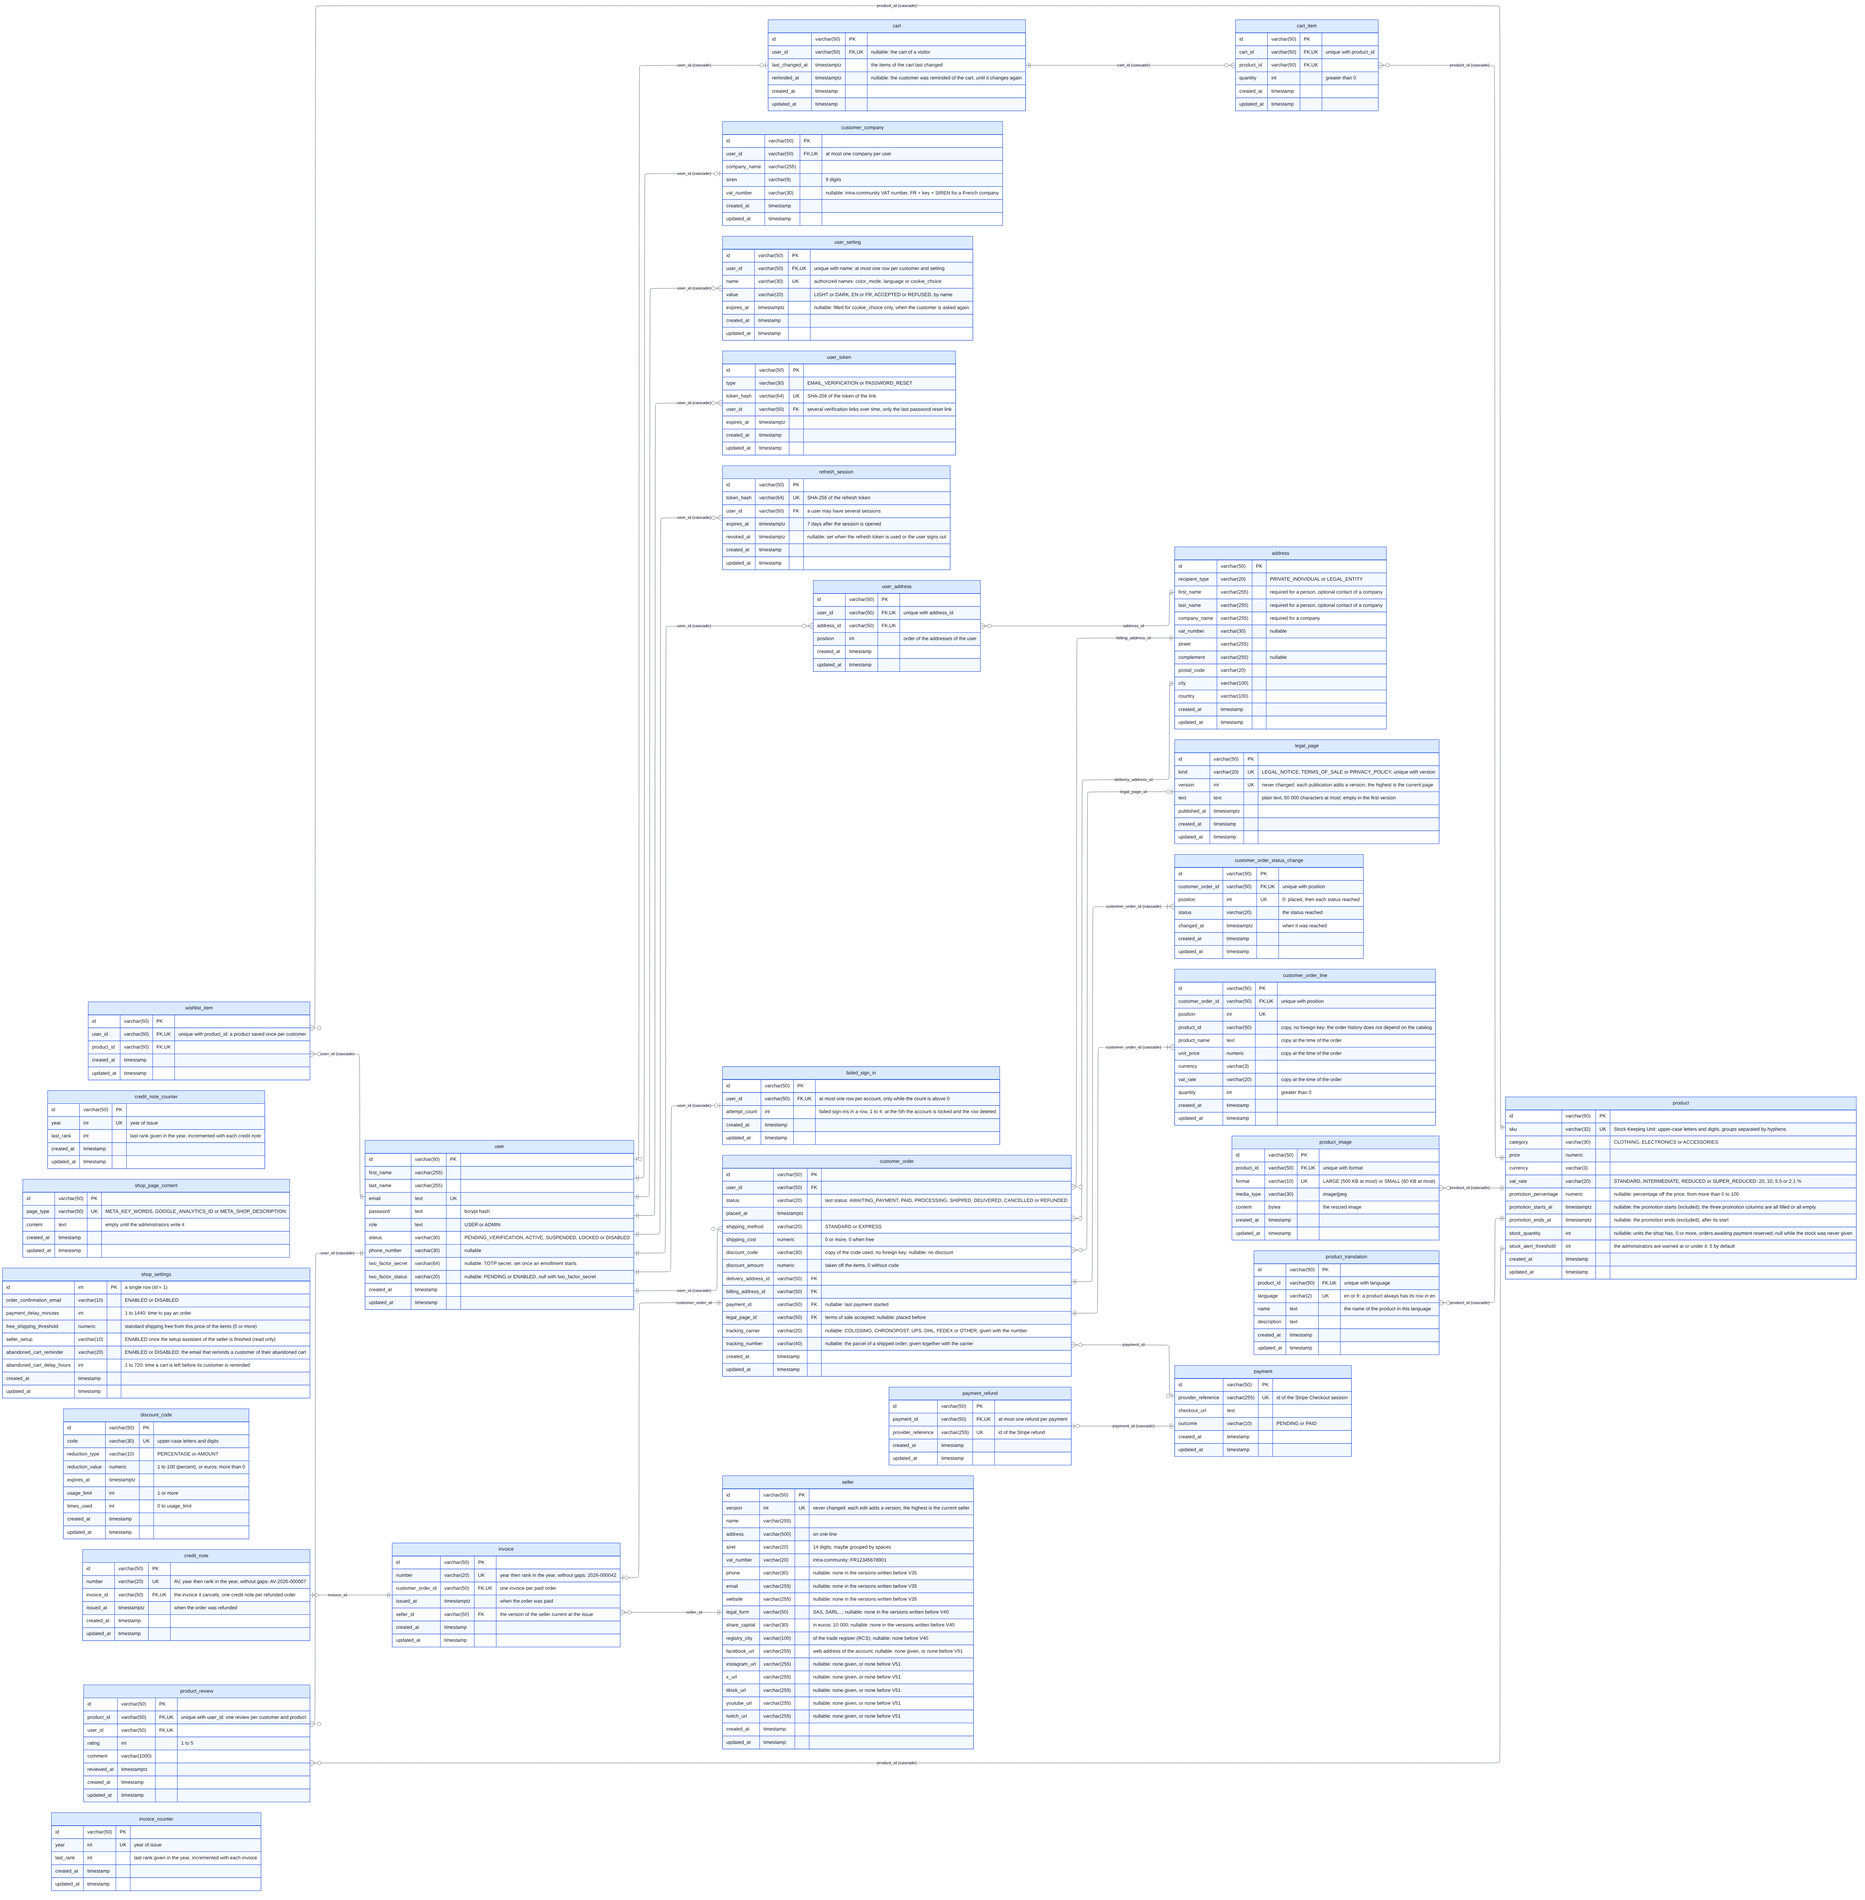
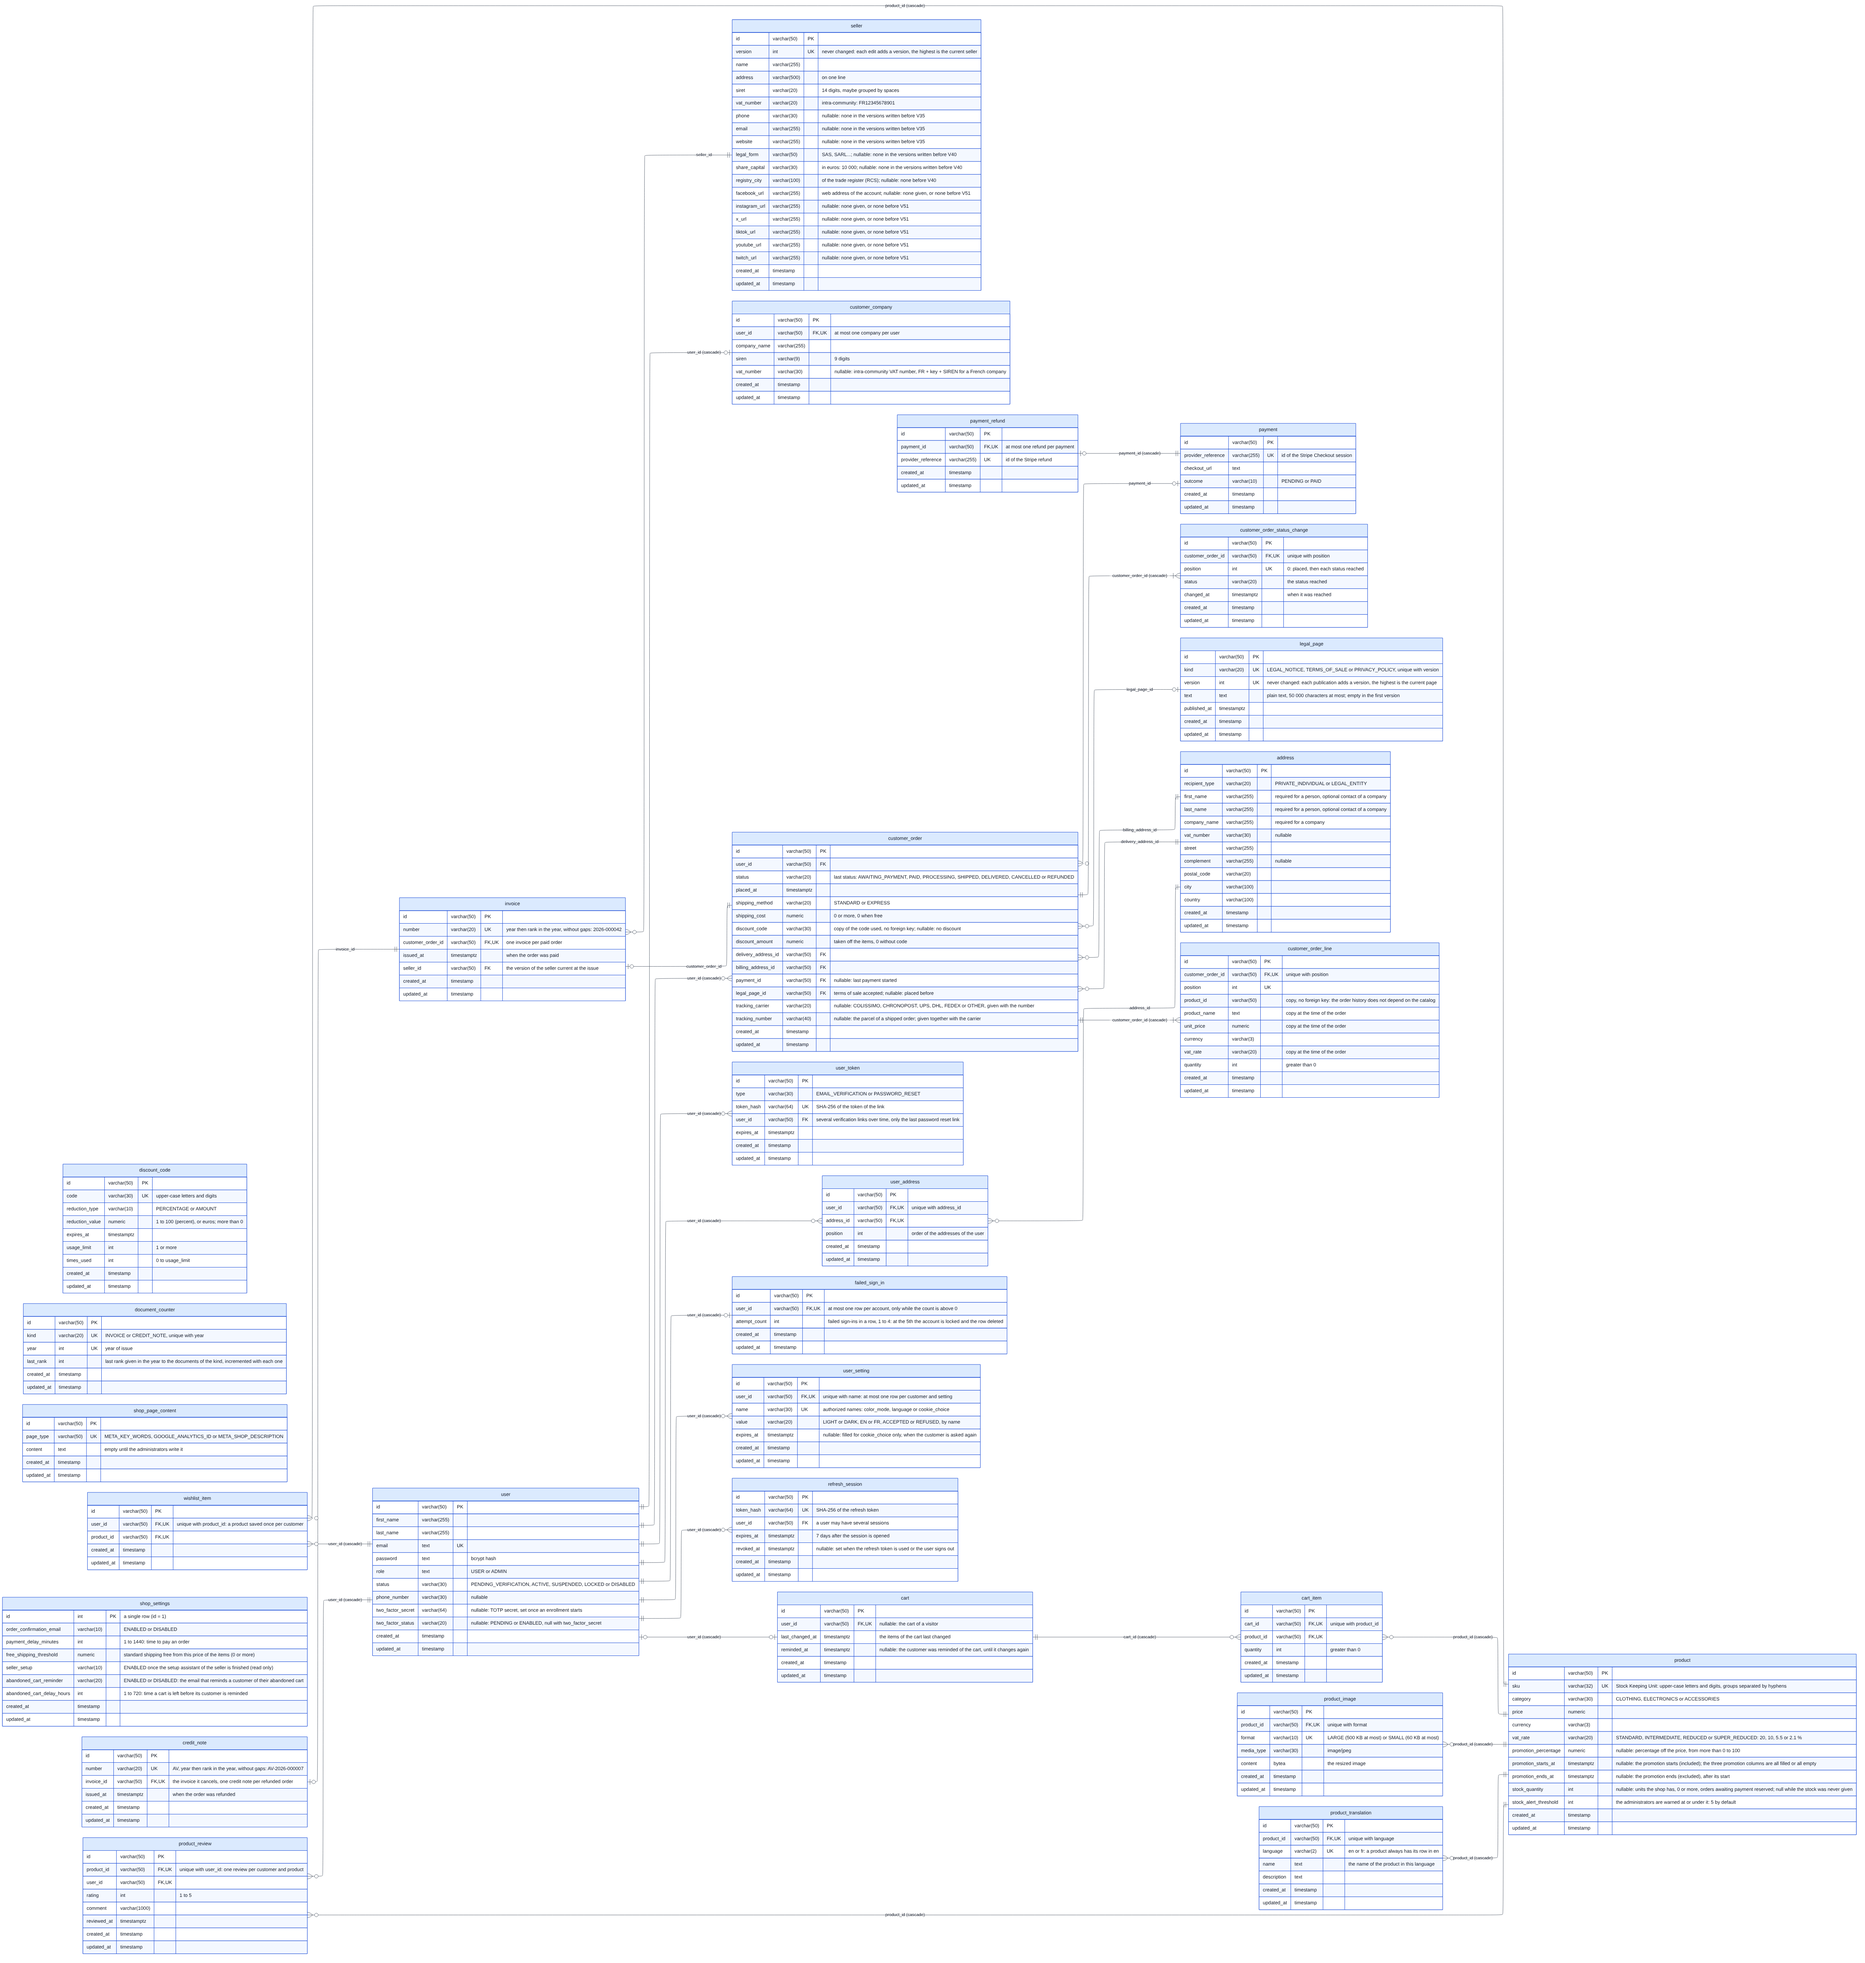
refactor(db): merge the invoice and credit note counters into document_counter
invoice_counter and credit_note_counter were two tables of the same kind:
the last rank given in a year to the documents of one kind. They are now the
rows of document_counter, one per kind (INVOICE or CREDIT_NOTE) and year.
V60 copies the existing counters and drops the two tables.

Claude-Session: https://claude.ai/code/session_01U9gDSZZiT5EBeJiDQoHqRa

diff --git a/backend/spring-infra/src/main/kotlin/org/flexstore/infra/spring/adapter/persistence/jpa/repository/JpaInvoiceRepository.kt b/backend/spring-infra/src/main/kotlin/org/flexstore/infra/spring/adapter/persistence/jpa/repository/JpaInvoiceRepository.kt
@@ -17,12 +17,13 @@ interface JpaInvoiceRepository : JpaRepository<InvoiceEntity, String> {
 
     fun findByCustomerOrderId(customerOrderId: String): InvoiceEntity?
 
-    // The next rank of the invoices of the year: the counter of the year is created at 1, or incremented. Its
-    // row stays locked until the end of the transaction, so that two invoices never take the same rank, and an
-    // issue rolled back gives its rank back
+    // The next rank of the invoices of the year: the invoice counter of the year is created at 1, or
+    // incremented. Its row stays locked until the end of the transaction, so that two invoices never take the
+    // same rank, and an issue rolled back gives its rank back
     @Query(
-        value = """INSERT INTO invoice_counter (id, year, last_rank) VALUES (:id, :year, 1)
-                   ON CONFLICT (year) DO UPDATE SET last_rank = invoice_counter.last_rank + 1, updated_at = now()
+        value = """INSERT INTO document_counter (id, kind, year, last_rank) VALUES (:id, 'INVOICE', :year, 1)
+                   ON CONFLICT (kind, year)
+                   DO UPDATE SET last_rank = document_counter.last_rank + 1, updated_at = now()
                    RETURNING last_rank""",
         nativeQuery = true
     )

diff --git a/backend/spring-infra/src/main/kotlin/org/flexstore/infra/spring/adapter/persistence/jpa/repository/JpaCreditNoteRepository.kt b/backend/spring-infra/src/main/kotlin/org/flexstore/infra/spring/adapter/persistence/jpa/repository/JpaCreditNoteRepository.kt
@@ -16,12 +16,12 @@ interface JpaCreditNoteRepository : JpaRepository<CreditNoteEntity, String> {
 
     fun findByInvoiceId(invoiceId: String): CreditNoteEntity?
 
-    // The next rank of the credit notes of the year, as for the invoices: the counter of the year is created
-    // at 1, or incremented, and its row stays locked until the end of the transaction
+    // The next rank of the credit notes of the year, as for the invoices: the credit note counter of the year
+    // is created at 1, or incremented, and its row stays locked until the end of the transaction
     @Query(
-        value = """INSERT INTO credit_note_counter (id, year, last_rank) VALUES (:id, :year, 1)
-                   ON CONFLICT (year)
-                   DO UPDATE SET last_rank = credit_note_counter.last_rank + 1, updated_at = now()
+        value = """INSERT INTO document_counter (id, kind, year, last_rank) VALUES (:id, 'CREDIT_NOTE', :year, 1)
+                   ON CONFLICT (kind, year)
+                   DO UPDATE SET last_rank = document_counter.last_rank + 1, updated_at = now()
                    RETURNING last_rank""",
         nativeQuery = true
     )

diff --git a/backend/spring-infra/src/main/kotlin/org/flexstore/infra/spring/adapter/persistence/jpa/entity/InvoiceEntity.kt b/backend/spring-infra/src/main/kotlin/org/flexstore/infra/spring/adapter/persistence/jpa/entity/InvoiceEntity.kt
@@ -3,7 +3,7 @@ package org.flexstore.infra.spring.adapter.persistence.jpa.entity
 import jakarta.persistence.*
 import java.time.Instant
 
-// The invoice of a paid order, numbered in the sequence of its year (invoice_counter)
+// The invoice of a paid order, numbered in the sequence of its year (document_counter)
 @Entity
 @Table(name = "invoice")
 data class InvoiceEntity(

diff --git a/backend/spring-infra/src/main/kotlin/org/flexstore/infra/spring/adapter/persistence/jpa/entity/CreditNoteEntity.kt b/backend/spring-infra/src/main/kotlin/org/flexstore/infra/spring/adapter/persistence/jpa/entity/CreditNoteEntity.kt
@@ -4,7 +4,7 @@ import jakarta.persistence.*
 import java.time.Instant
 
 // The credit note of a refunded order, which cancels its invoice, numbered in the sequence of its year
-// (credit_note_counter)
+// (document_counter)
 @Entity
 @Table(name = "credit_note")
 data class CreditNoteEntity(

diff --git a/docs/database.md b/docs/database.md
@@ -1,6 +1,6 @@
 # Physical data model
 
-The PostgreSQL schema of Flexstore, as created by the Flyway migrations of `backend/migrations` (last migration: **V59**). Update this diagram in the same pull request as any migration that changes the schema (see the `database-convention` skill).
+The PostgreSQL schema of Flexstore, as created by the Flyway migrations of `backend/migrations` (last migration: **V60**). Update this diagram in the same pull request as any migration that changes the schema (see the `database-convention` skill).
 
 ![Physical data model](database.png)
 
@@ -199,10 +199,11 @@ erDiagram
         updated_at timestamp
     }
 
-    invoice_counter {
+    document_counter {
         id varchar(50) PK
+        kind varchar(20) UK "INVOICE or CREDIT_NOTE, unique with year"
         year int UK "year of issue"
-        last_rank int "last rank given in the year, incremented with each invoice"
+        last_rank int "last rank given in the year to the documents of the kind, incremented with each one"
         created_at timestamp
         updated_at timestamp
     }
@@ -212,14 +213,6 @@ erDiagram
         number varchar(20) UK "AV, year then rank in the year, without gaps: AV-2026-000007"
         invoice_id varchar(50) FK,UK "the invoice it cancels, one credit note per refunded order"
         issued_at timestamptz "when the order was refunded"
-        created_at timestamp
-        updated_at timestamp
-    }
-
-    credit_note_counter {
-        id varchar(50) PK
-        year int UK "year of issue"
-        last_rank int "last rank given in the year, incremented with each credit note"
         created_at timestamp
         updated_at timestamp
     }
@@ -366,7 +359,7 @@ erDiagram
 - Every table has a technical primary key `id` (generated by the application), and the creation and last update dates `created_at` / `updated_at` (set by Hibernate).
 - An `address` belongs to no user: the users refer to their addresses through `user_address`, the orders through `delivery_address_id` and `billing_address_id`. Editing an address creates a new row, removing it from a user deletes only its `user_address` row: an order always keeps the address it was delivered and billed to.
 - The `seller` written on the invoices is edited by the administrators. Each edit adds a version and never changes one: an `invoice` references the version current when it was issued, so that it keeps the seller it was issued with. Its legal form, its share capital and the city of its trade register are asked since V40, which adds a version of the demonstration seller with them while it is still the current one; the versions written before have none. Its accounts on the social networks (Facebook, Instagram, X, TikTok, YouTube, Twitch) are asked since V51, each one optional: the footer of the shop shows the ones that are given, and the versions written before have none.
-- A `credit_note` cancels the `invoice` of a refunded order, and is written with the seller of that invoice. The credit notes have their own sequence of numbers (`credit_note_counter`), as the invoices; V39 issues the credit notes of the orders refunded before it, dated when they were refunded.
+- A `credit_note` cancels the `invoice` of a refunded order, and is written with the seller of that invoice. The credit notes have their own sequence of numbers, as the invoices (one row of `document_counter` per kind and year, V60 merged the former `invoice_counter` and `credit_note_counter` tables); V39 issues the credit notes of the orders refunded before it, dated when they were refunded.
 - The `legal_page` rows are the legal notice, the terms of sale and the privacy policy of the shop, written by the administrators and read by everyone. Each publication adds a version of its kind and never changes one, so that the terms of sale of a given date can be found again. The migration creates a first, empty version of each kind; V38 adds a standard version of each one, written with the current seller, while its current version is still empty. V55 adds the privacy policy: a first, empty version, then its standard version, in the same way. An order keeps the version of the terms of sale its customer accepted (`legal_page_id`); the orders placed before V37 have none.
 - A customer who creates their account for their company gives it once: its `customer_company` row (name, SIREN, VAT number). The address they give is then addressed to the company, for their attention (`address.recipient_type` `LEGAL_ENTITY`, with the company name and the VAT number).
 - The settings of a signed-in customer are `user_setting` rows (V58 merged the former `cookie_consent` and `user_preference` tables into it): one row per setting the customer chose, at most one per customer and `name`, replaced by each new choice. A new setting is a new authorized name (and its authorized values) in the checks of the table, not a new column. A customer who never chose a setting has no row for it.
